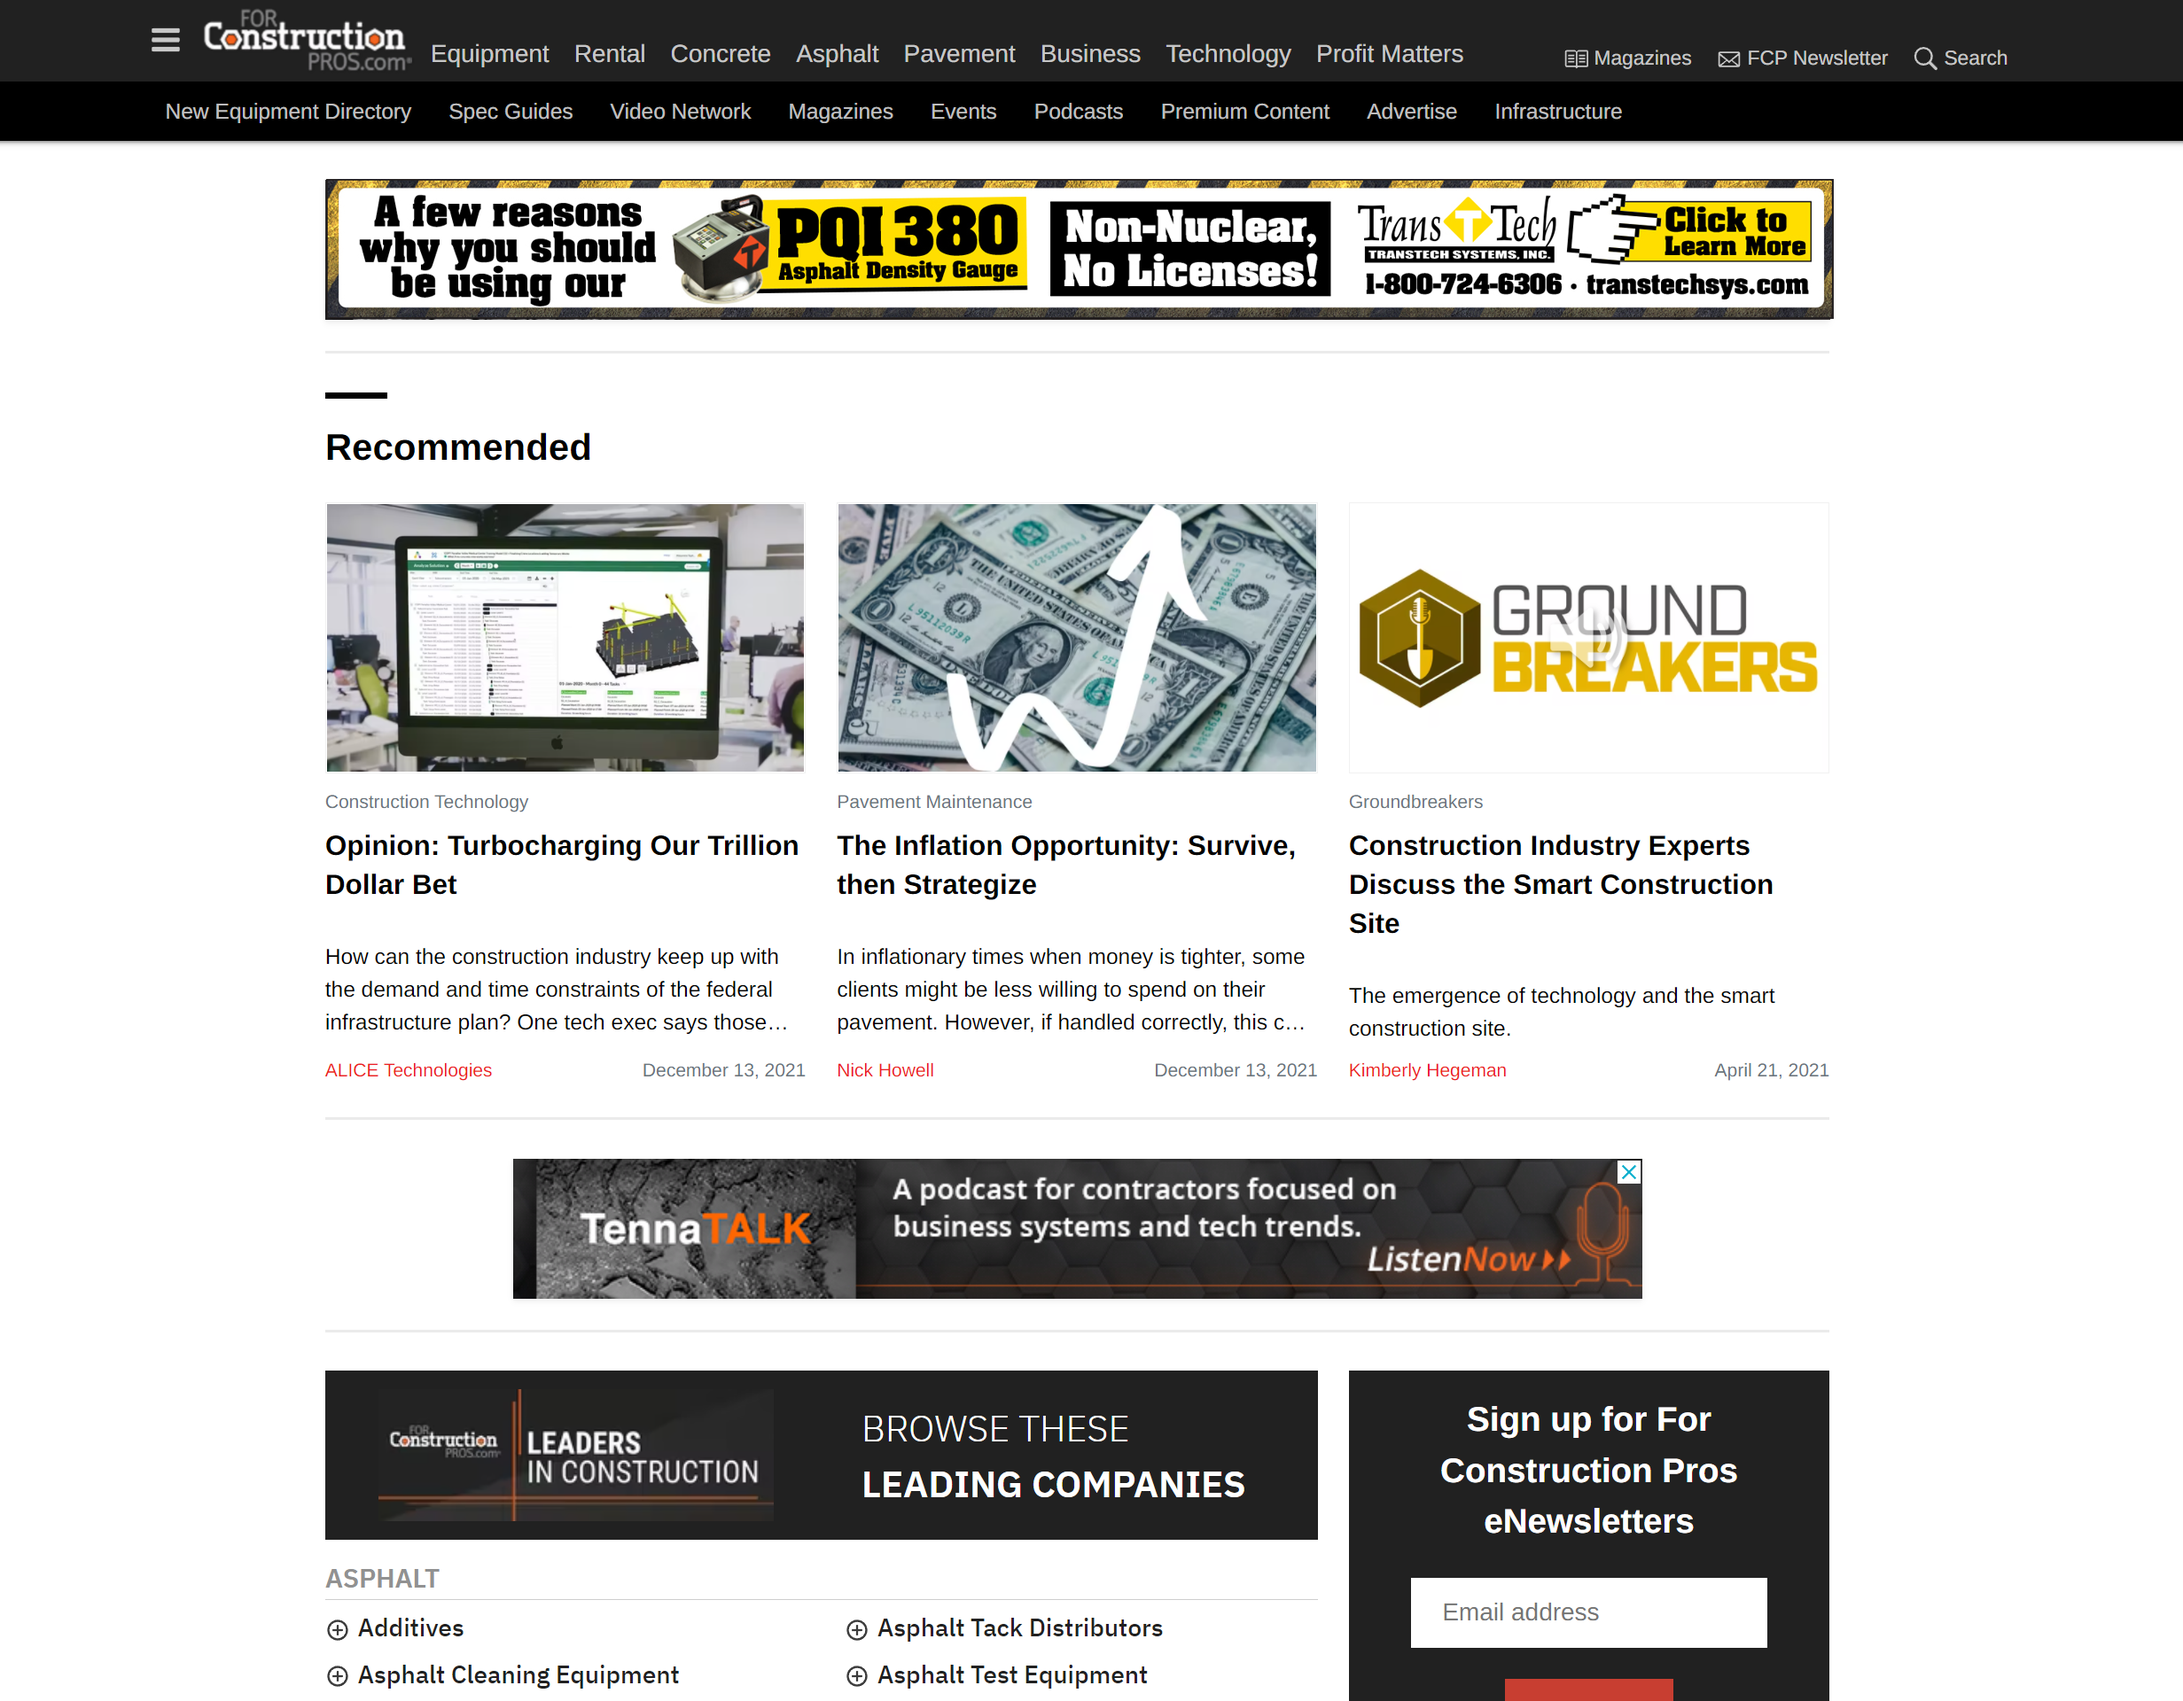
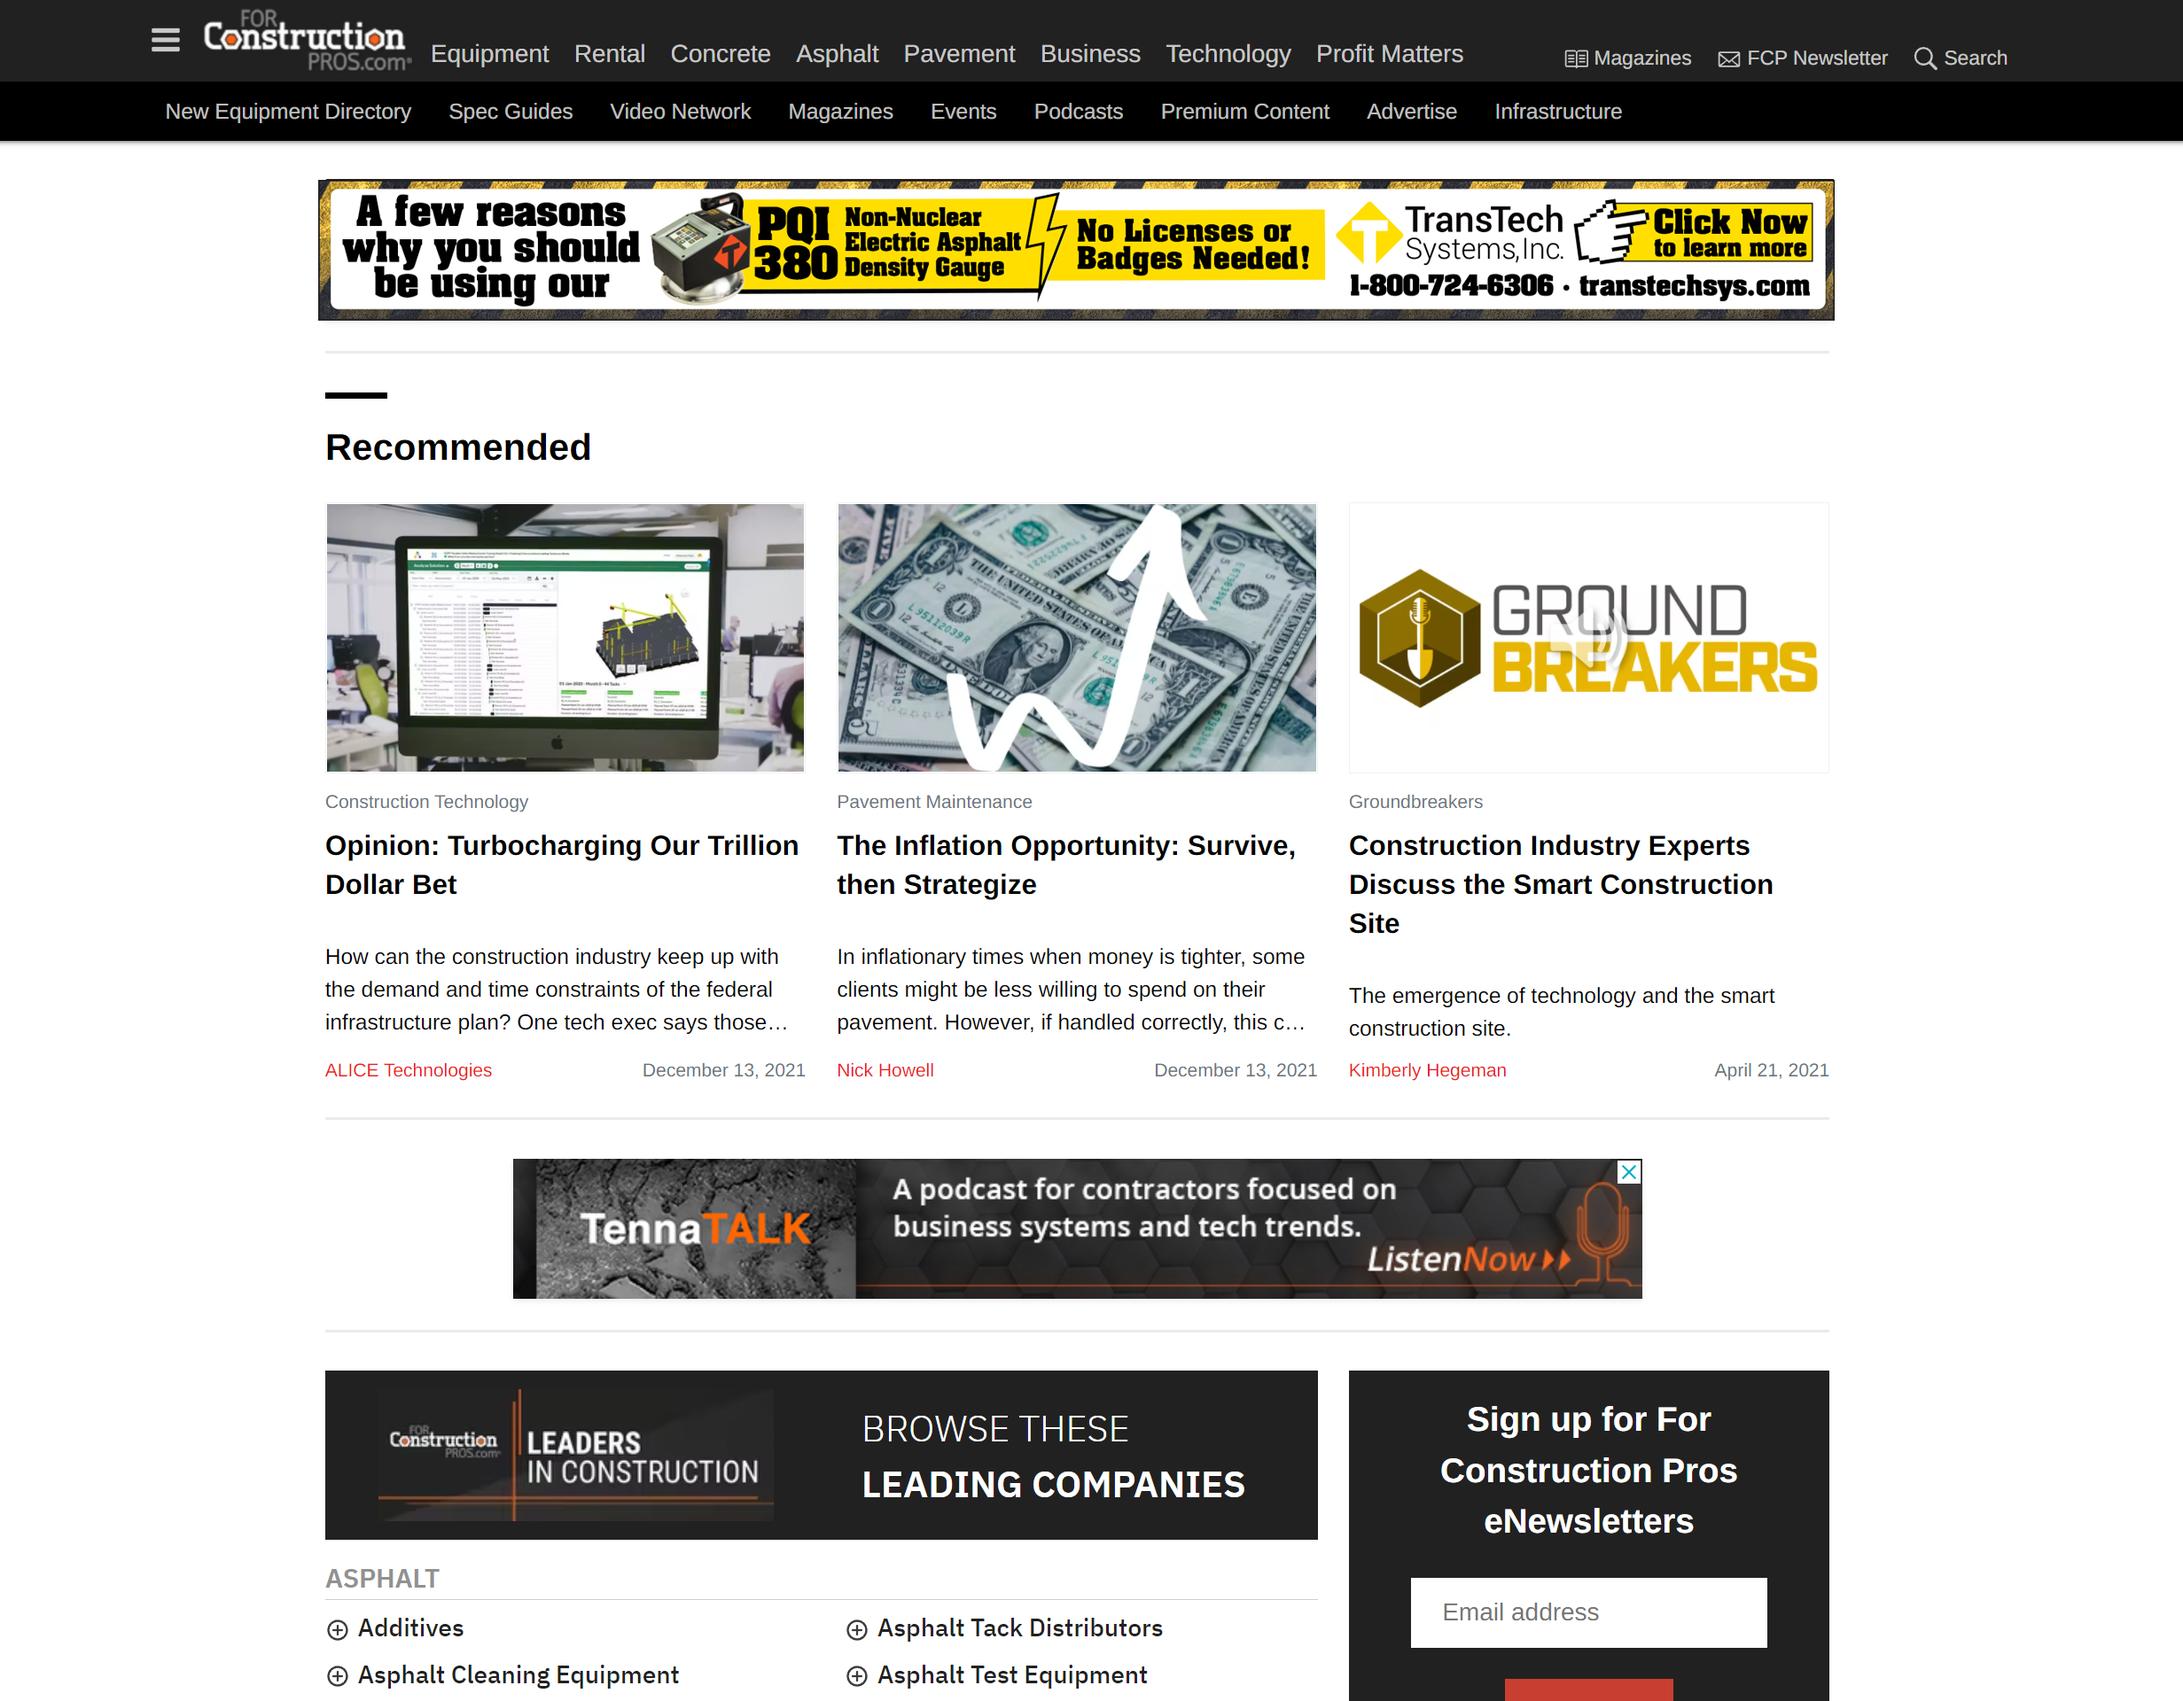
Updated 970x90 ad and url

Changed region(s): [[0.1234, 0.0938, 0.864, 0.1875]]

diff --git a/app/page.js b/app/page.js
@@ -6,6 +6,33 @@ export default function Home() {
       <h2 className='text-3xl mt-10'>January</h2>
 
       <section className='my-10'>
+        <h4 className='text-xl font-bold mb-5'>970 x 90</h4>
+        <a
+          href='http://www.transtechsys.com/products/digitalAC'
+          target='_blank'
+        >
+          <img src='/AC970x90Animated.gif' alt='970x90' className='w-[970px]' />
+        </a>
+        <h5 className='mt-3'>
+          <a href='/AC970x90AnimatedEx.png' target='_blank'>
+            Example Placement
+          </a>
+        </h5>
+      </section>
+
+      <section className='my-10'>
+        <h4 className='text-xl font-bold mb-5'>728 x 90</h4>
+        <a href='http://www.transtechsys.com/products/pqi380' target='_blank'>
+          <img src='/AC728x90Animated.gif' alt='728x90' className='w-[728px]' />
+        </a>
+        <h5 className='mt-3'>
+          <a href='/AC728x90AnimatedEx.png' target='_blank'>
+            Example Placement
+          </a>
+        </h5>
+      </section>
+
+      <section className='my-10'>
         <h4 className='text-xl font-bold mb-5'>300 x 600</h4>
         <a href='http://www.transtechsys.com/products/pqi380' target='_blank'>
           <img src='/AC600x300Static.png' alt='600x300' className='w-[300px]' />
@@ -28,30 +55,6 @@ export default function Home() {
         </a>
         <h5 className='mt-3'>
           <a href='/AC300x250AnimatedEx.png' target='_blank'>
-            Example Placement
-          </a>
-        </h5>
-      </section>
-
-      <section className='my-10'>
-        <h4 className='text-xl font-bold mb-5'>970 x 90</h4>
-        <a href='http://www.transtechsys.com/products/pqi380' target='_blank'>
-          <img src='/AC970x90Animated.gif' alt='970x90' className='w-[970px]' />
-        </a>
-        <h5 className='mt-3'>
-          <a href='/AC970x90AnimatedEx.png' target='_blank'>
-            Example Placement
-          </a>
-        </h5>
-      </section>
-
-      <section className='my-10'>
-        <h4 className='text-xl font-bold mb-5'>728 x 90</h4>
-        <a href='http://www.transtechsys.com/products/pqi380' target='_blank'>
-          <img src='/AC728x90Animated.gif' alt='728x90' className='w-[728px]' />
-        </a>
-        <h5 className='mt-3'>
-          <a href='/AC728x90AnimatedEx.png' target='_blank'>
             Example Placement
           </a>
         </h5>
